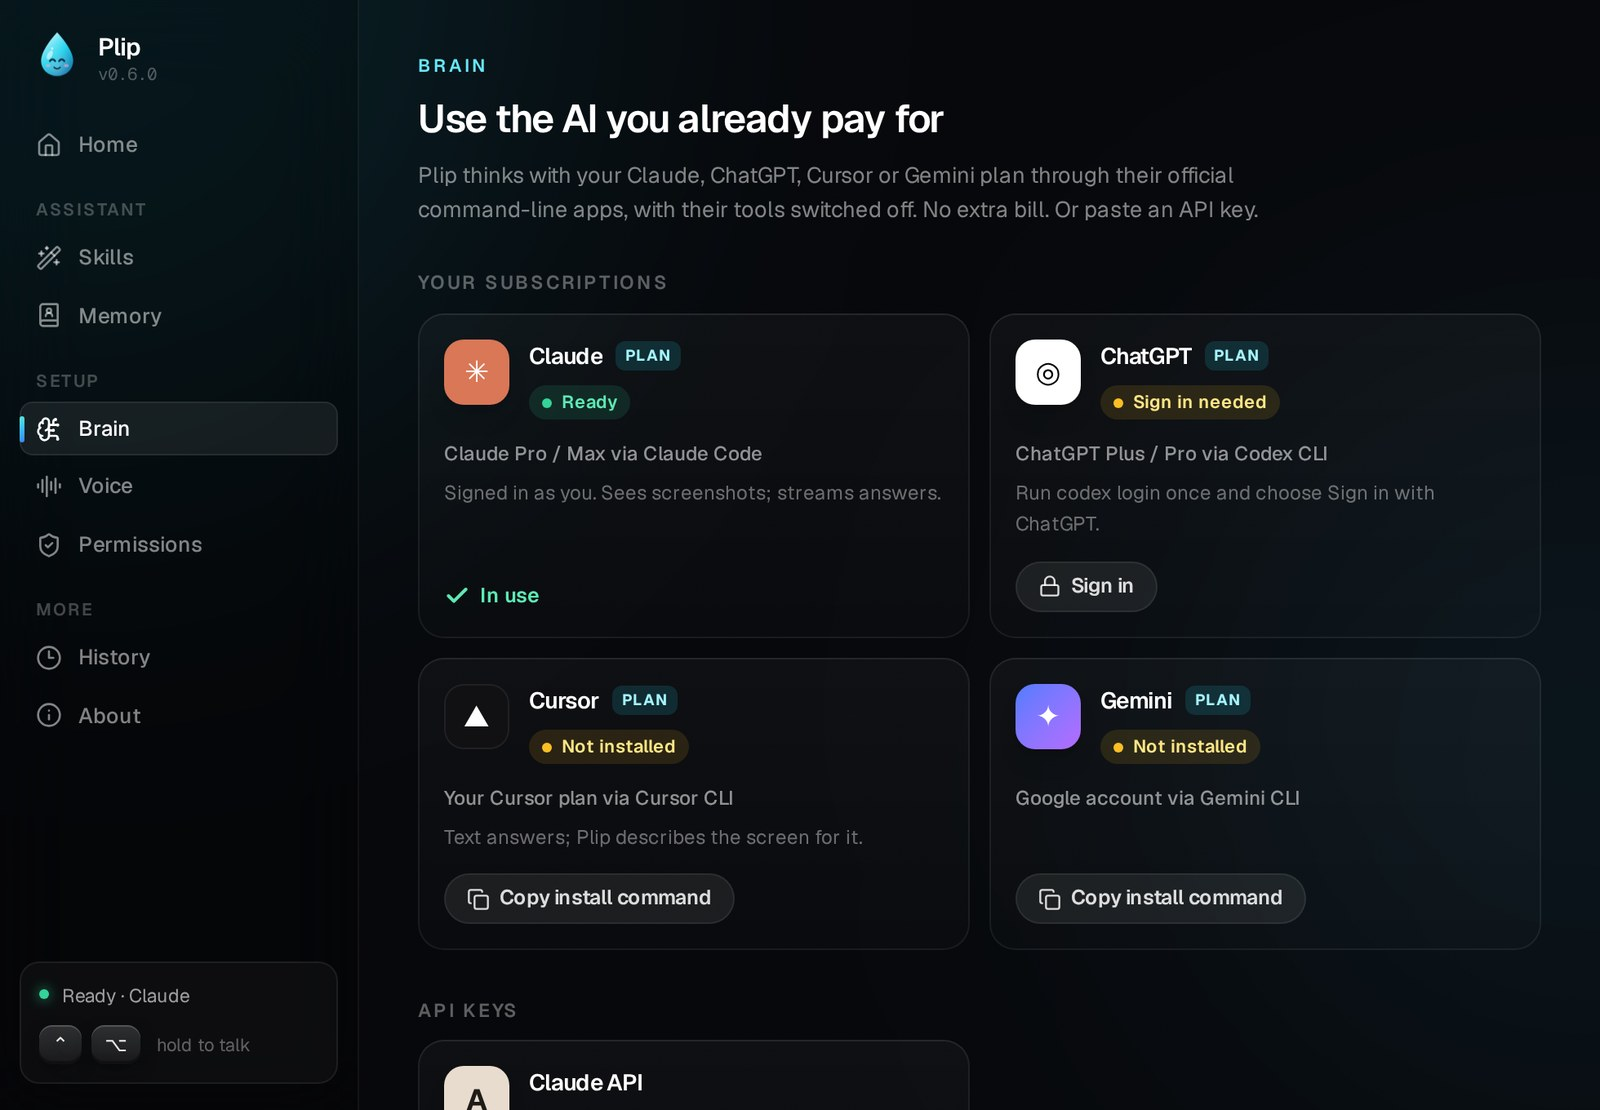
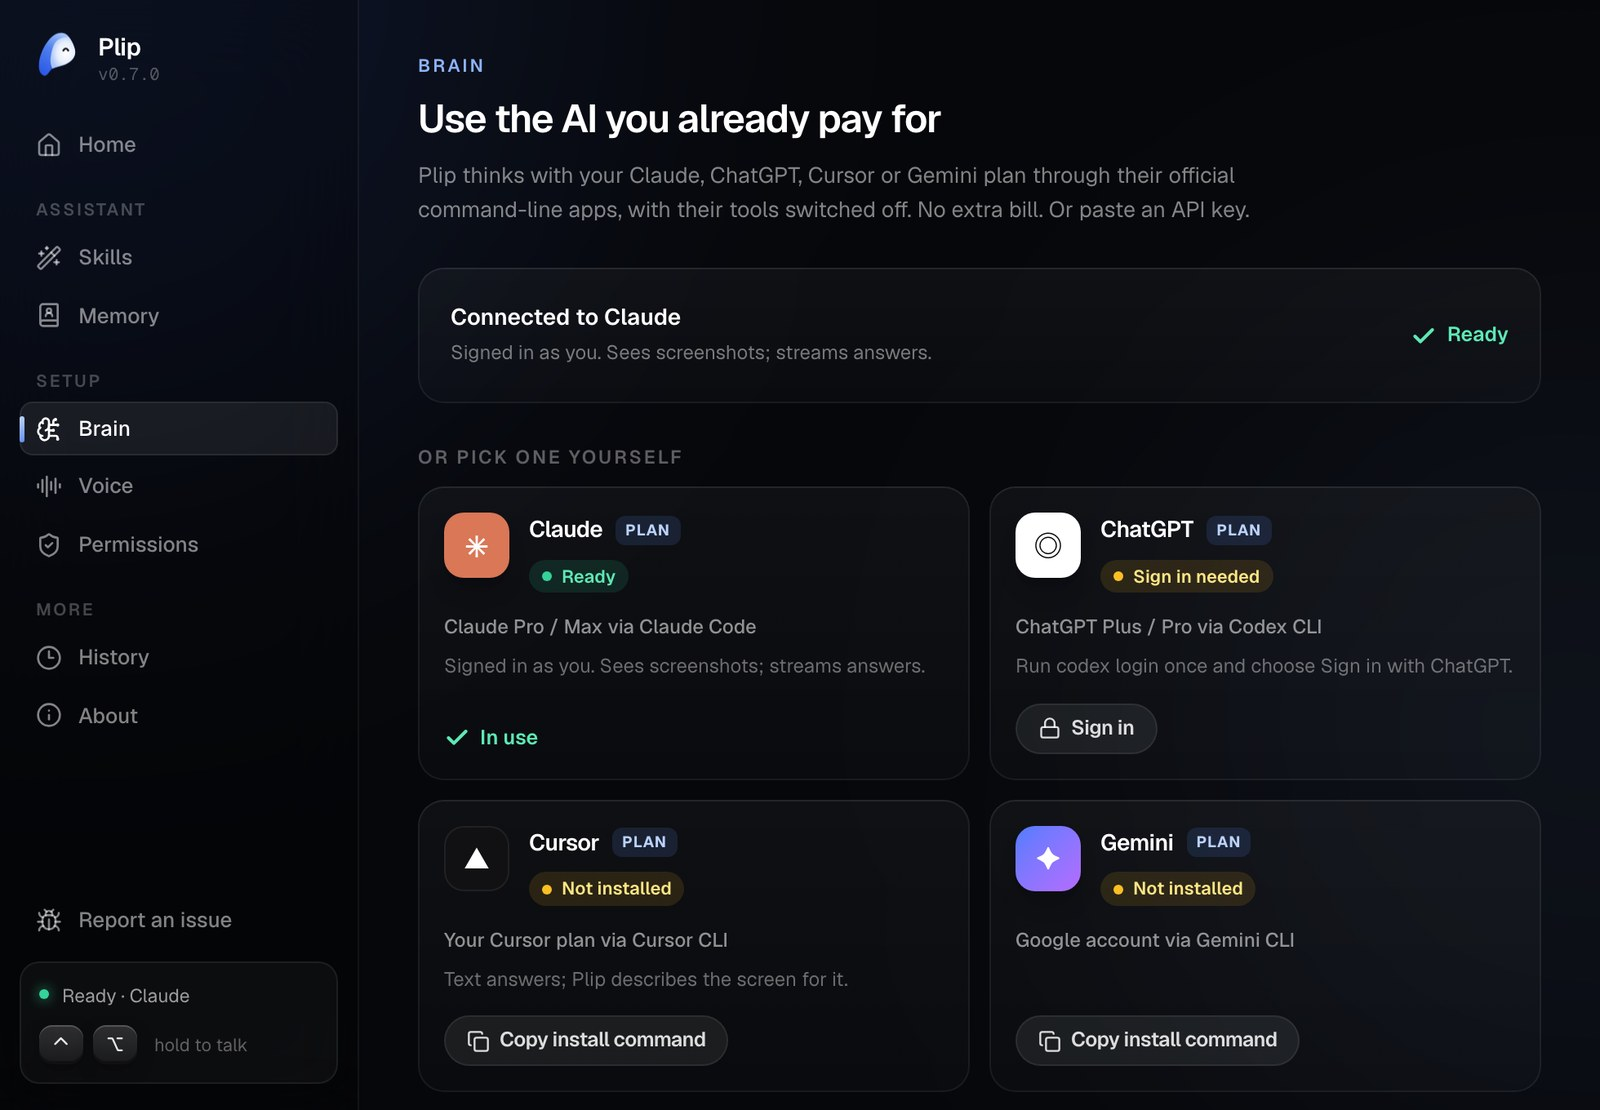
new screenshots, no more droplet

diff --git a/README.md b/README.md
@@ -8,10 +8,10 @@ for you: finds files, tidies your desktop, pulls up flights, sets reminders,
 rewrites your text. It thinks with the **Claude, ChatGPT,
 Cursor or Gemini plan you already pay for**.
 
-![Plip walking through a five-step checklist in the notch while the droplet points at the next click](docs/img/plip-plan.jpg)
+![Plip walking through a five-step checklist in the notch while Plip points at the next click](docs/img/plip-plan.jpg)
 
 > "how do I send this deck as a PDF?"
-> → a five-step checklist drops out of the notch, and a little droplet drips down to
+> → a five-step checklist drops out of the notch, and Plip slips out of the notch to
 > point at the next click. Plip watches your screen and checks each step off as you go.
 
 > "tidy up my desktop"
@@ -124,7 +124,7 @@ From the terminal: `plip memory import contacts`, `plip memory show`, `plip memo
                            ▼
    your brain (Claude Code / Codex / Cursor / Gemini / API), streamed
      ├─▶ sentences ──▶ TTS queue (speaks sentence 1 while 2 is synthesized)
-     ├─▶ [POINT:x,y:label]       ──▶ snap to the real control ──▶ the droplet drips out of the notch to it
+     ├─▶ [POINT:x,y:label]       ──▶ snap to the real control ──▶ Plip slips out of the notch to it
      ├─▶ [STEPS:n] [PLAN: a | b] ──▶ checklist in the notch; Plip watches the screen and gives the next step
      └─▶ [DO:name {json}]        ──▶ action engine ──▶ preview + your yes (if it moves files) ──▶ done
                                        └──▶ results (search hits, a loaded page) go back for one more turn
@@ -143,7 +143,7 @@ From the terminal: `plip memory import contacts`, `plip memory show`, `plip memo
 
 Everything above the windows is platform-neutral and tested, including the CLI
 engines (through real subprocesses) and a full `plip` CLI run against a fake Claude
-Code. The macOS layer is three WKWebViews (island, droplet, dashboard) rendering one
+Code. The macOS layer is three WKWebViews (island, mascot, dashboard) rendering one
 React bundle, plus an event tap and audio glue. See [docs/BUDDY.md](docs/BUDDY.md).
 
 ## MCP server (for Cursor, Claude Desktop, Claude Code)

diff --git a/docs/BUDDY.md b/docs/BUDDY.md
@@ -2,7 +2,7 @@
 
 `plip` (also `mcp-vision buddy`) is a voice companion that lives in the MacBook
 notch. You hold Control+Option and talk. The notch island shows what it heard and
-what it is doing. It looks at your screens, answers out loud, drips a small droplet
+what it is doing. It looks at your screens, answers out loud, sends a small Plip
 out of the notch to point at things, and does tasks on the Mac with your OK.
 
 The product model and most of the tuning come from a source-level reading of
@@ -143,7 +143,7 @@ changing a macOS module, do these checks.
 3. Hold Control+Option and say "where is the apple menu".
    - The island drops down with a live waveform and your words.
    - When you let go, it shows the steps it is taking ("Looked at 1 screen", "Claude is thinking").
-   - Plip speaks, the droplet drips out of the notch to the Apple menu, shows
+   - Plip speaks, Plip slips out of the notch to the Apple menu, shows
      "apple menu" in its bubble, and floats back up. Click ⌃ to minimize the island.
 4. Ask "how do I turn on dark mode". The island shows a checklist. Do the step;
    Plip notices the screen change and checks it off.
